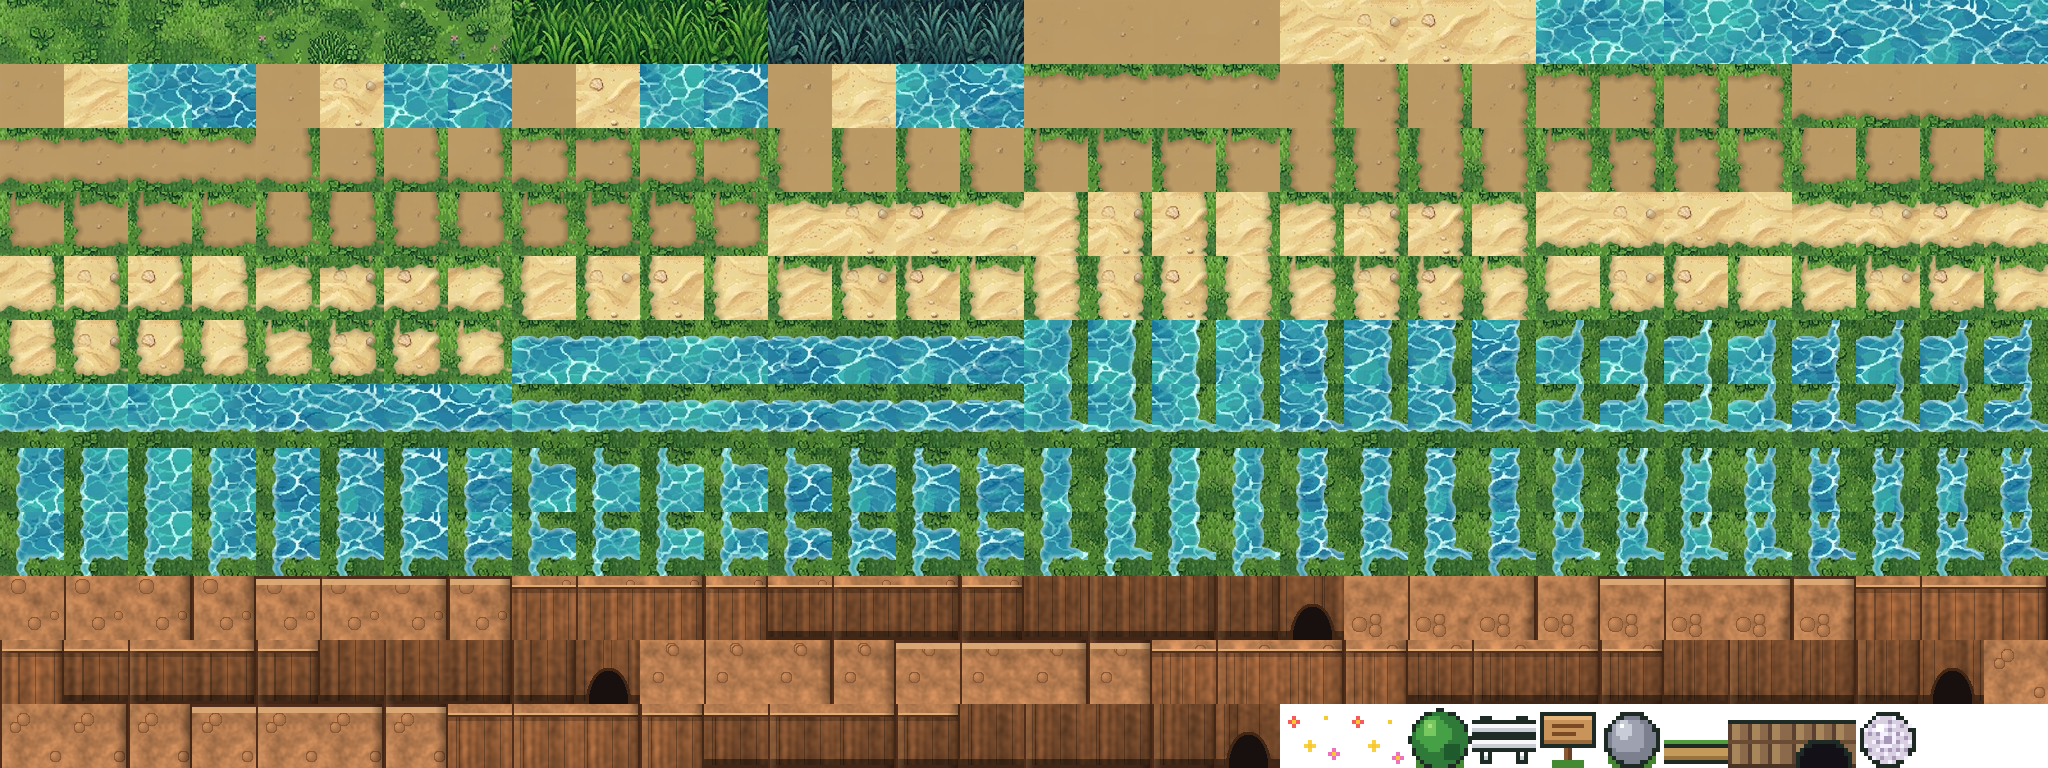
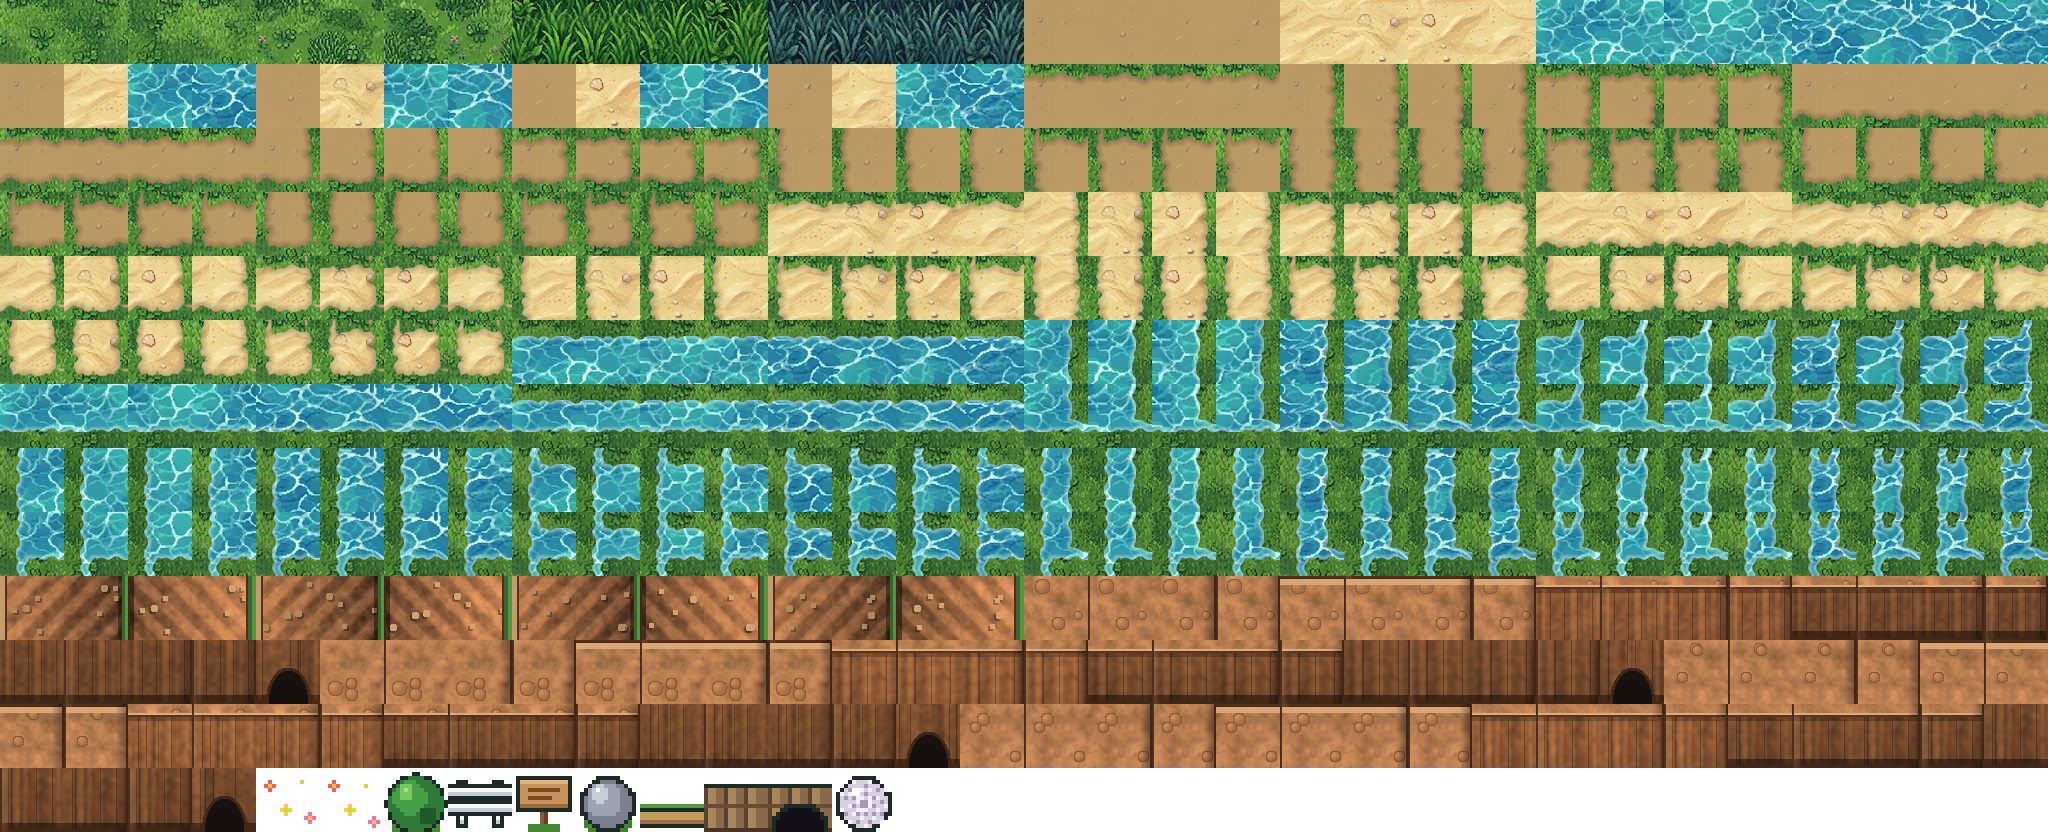
Laderas laterales en pendiente entre las terrazas y el prado de la Ruta 3
Claude-Session: https://claude.ai/code/session_018v1fAZrQHSEnPWssP3zxe4

diff --git a/src/game/world/maps.ts b/src/game/world/maps.ts
@@ -362,12 +362,12 @@ add(casa("casa-petri", "Casa de Ciudad Petri", { to: "ciudad-petri", x: 18, y: 1
   b.ascii([
     "%%%%%%%%**%%%%%%%%%%TTTTTTTTTTTTTTTTTTTTTTTT",
     "%%%%%%%%**%%%%%%%%%%TTTTTTTTTTTTTTTTTTTTTTTT",
-    "pppppppp~~ppppppppppTT.....k.........k....TT",
-    "pppppppp~~ppppppppppTT.f...k.........k....TT",
-    "pppppppp==ppppppppppTT.....k.........k....TT",
-    "pppppppp~~ppppppppppTT.....k.........k....TT",
-    "pppppppp~~ppppppppppTT.....k.........k....TT",
-    "%%%%%%%%**%%%%%^%%%%TT.....k.........k....TT",
+    "pppppppp~~pppppppp>>.......k.........k....TT",
+    "pppppppp~~pppppppp>>...f...k.........k....TT",
+    "pppppppp==pppppppp>>.......k.........k....TT",
+    "pppppppp~~pppppppp>>.......k.........k....TT",
+    "pppppppp~~pppppppp>>.......k.........k....TT",
+    "%%%%%%%%**%%%%%^%%%%.......k.........k....TT",
     "%%%%%%%%**%%%%%^%%%%.......lllllppllll....TT",
     "pppppppp~~pppppppppp....ggg.ggggppgggg....TT",
     "pppppppp~~pppppppppp....gfg.ggggppgggg....TT",
@@ -376,16 +376,16 @@ add(casa("casa-petri", "Casa de Ciudad Petri", { to: "ciudad-petri", x: 18, y: 1
     "pppppppp~~pppppppppplllpllllllllppllggggg.TT",
     "pppppppp~~ppppppppppppppppppppppppppgggggppp",
     "%%%%^%%%**%%%%%%%%%%ppppppppppppppppgggggppp",
-    "%%O%^%%%**%%%%%%%%%%TTkkkkkkkkkkkkkkggggg.TT",
-    "pppppppp~~ppppppppppTT............f.......TT",
-    "pppppppp~~ppppppppppTT....gggggggg..TT....TT",
-    "pppppppp~~ppppppppppTT....gggggggg..TT....TT",
-    "pppppppp~~ppppppppppTT....gggggggg......f.TT",
-    "pppppppp==ppppppppppTT..f.gggggggg........TT",
-    "pppppppp~~ppppppppppTT........TT......TT..TT",
-    "pppppppp~~ppppppppppTTgggg....TT...f..TT..TT",
-    "pppppppp~~ppppppppppTTgggg..f.............TT",
-    "pppppppp~~ppppppppppTTgggg................TT",
+    "%%O%^%%%**%%%%%%%%%%kkkkkkkkkkkkkkkkggggg.TT",
+    "pppppppp~~pppppppp<<..............f.......TT",
+    "pppppppp~~pppppppp<<......gggggggg..TT....TT",
+    "pppppppp~~pppppppp<<......gggggggg..TT....TT",
+    "pppppppp~~pppppppp<<......gggggggg......f.TT",
+    "pppppppp==pppppppp<<....f.gggggggg........TT",
+    "pppppppp~~pppppppp<<..........TT......TT..TT",
+    "pppppppp~~pppppppp<<..gggg....TT...f..TT..TT",
+    "pppppppp~~pppppppp<<..gggg..f.............TT",
+    "pppppppp~~pppppppp<<..gggg................TT",
     "%%%%%%%%**%%%%%%%%%%TTTTTTTTTTTTTTTTTTTTTTTT",
     "%%%%%%%%**%%%%%%%%%%TTTTTTTTTTTTTTTTTTTTTTTT",
   ]);

diff --git a/src/game/world/builder.ts b/src/game/world/builder.ts
@@ -152,18 +152,23 @@ export function tileAt(m: MapDef, x: number, y: number, frame = 0): string {
   }
   if (ch === "%" || (ch === "O" && (m.grid[y]?.[x - 1] === "%" || m.grid[y]?.[x + 1] === "%"))) {
     // Montaña con relieve: la pieza depende de qué lados dan a suelo (ver tools/art/terreno_hd.py)
-    const roca = (xx: number, yy: number) => { const c = m.grid[yy]?.[xx]; return c === undefined || c === "%" || c === "O"; };
+    const roca = (xx: number, yy: number) => { const c = m.grid[yy]?.[xx]; return c === undefined || c === "%" || c === "O" || c === "<" || c === ">"; };
     if (ch === "O") return "monte_cueva";
     const e = roca(x + 1, y) ? 0 : 1, w = roca(x - 1, y) ? 0 : 1;
     // por debajo del mapa se considera terreno más bajo: el borde inferior es una pared que cae
-    const abierto = (k: number) => y + k >= m.h || !roca(x, y + k);
+    const abierto = (k: number) => y + k >= m.h || !"%O".includes(m.grid[y + k]?.[x] ?? "%");   // las laderas cuentan como más bajo
     if (abierto(1)) return `monte_${roca(x, y - 1) && m.grid[y - 1]?.[x] === "%" ? "cara2" : "cara1"}_${e}${w}`;
     if ((m.grid[y + 1]?.[x] === "%" || m.grid[y + 1]?.[x] === "O") && abierto(2)) return `monte_alta_${e}${w}`;
     return `monte_cima_${roca(x, y - 1) ? 0 : 1}${e}${w}`;
   }
+  if (ch === ">" || ch === "<") {
+    // laderas laterales de 2 casillas: «>» baja hacia el este (terraza más alta), «<» sube hacia el este (más baja)
+    const parte = m.grid[y]?.[x - 1] === ch ? 2 : 1;
+    return `monte_ladera_${ch === ">" ? "baja" : "sube"}_${parte}`;
+  }
   if (ch === "~" || ch === "p" || ch === "s") {
     // vecinos que no llevan borde de césped: en la montaña, riscos, escalones, puentes y cascadas
-    const sinBorde = ch === "p" ? "%^=|*O~s" : ch === "~" ? "=|*%p" : ch === "s" ? "%^=|*O~p" : "";
+    const sinBorde = ch === "p" ? "%^=|*O~s<>" : ch === "~" ? "=|*%p" : ch === "s" ? "%^=|*O~p" : "";
     const same = (xx: number, yy: number) => { const c = m.grid[yy]?.[xx]; return c === undefined || c === ch || sinBorde.includes(c) || (ch === "p" && (c.startsWith("@muro_puerta") || c === "@puerta_hd")); };
     const mask = (same(x, y - 1) ? 0 : 1) | (same(x + 1, y) ? 0 : 2) | (same(x, y + 1) ? 0 : 4) | (same(x - 1, y) ? 0 : 8);
     if (ch === "~") return `agua_${mask}_${frame % 64 < 32 ? 0 : 1}`;

diff --git a/tools/art/terreno_hd.py b/tools/art/terreno_hd.py
@@ -127,7 +127,42 @@ def cueva(seed):
     borde = ((xx - 32) / 23) ** 2 + ((yy - 64) / 37) ** 2 < 1
     a[borde & ~arco] = OUT; a[arco] = np.array([24, 16, 14.])
     return a
+def ladera(baja, parte, seed):
+    """Laderas laterales (2 casillas de ancho) entre una terraza y el prado del este, vistas en pendiente.
+    baja=True: la terraza está más alta y la ladera BAJA hacia el este (orientada al este: en sombra).
+    baja=False: la terraza está más baja y la ladera SUBE hacia el este (orientada al oeste: iluminada).
+    parte 1 = casilla del oeste (junto a la terraza), 2 = casilla del este (junto al prado)."""
+    yy, xx = np.mgrid[0:C, 0:C]
+    gx = (xx + (parte - 1) * C) / (2 * C - 1)                  # 0 en el borde de la terraza, 1 en el del prado
+    base = TOP * 0.55 + FACE * 0.45
+    ruido = _ruido(seed, 2.5) * 0.05 + _ruido(seed + 4, 0.9) * 0.025
+    # vetas diagonales marcadas (pedregal en pendiente) y degradado fuerte: se lee como una rampa, no como una pared
+    d = (xx + (parte - 1) * C) + (yy if baja else -yy)
+    vetas = 0.13 * np.sign(np.sin(d / 5.0)) * (0.6 + 0.4 * np.abs(np.sin(d / 5.0)))
+    vetas = gaussian_filter(vetas, 0.8)
+    luz = (1.08 - 0.5 * gx) if baja else (0.72 + 0.5 * gx)
+    a = base[None, None] * (luz + ruido + vetas)[..., None]
+    # piedras sueltas con sombra hacia abajo de la pendiente
+    rng = np.random.default_rng(seed + 31)
+    for _ in range(4):
+        cx, cy, r = rng.integers(8, 56), rng.integers(8, 56), rng.integers(3, 5)
+        m = np.hypot(xx - cx, yy - cy) < r
+        sh = np.hypot(xx - cx - (2 if baja else -2), yy - cy - 2) < r
+        a[sh & ~m] *= 0.7; a[m] = TOP_L * (0.95 if not baja else 0.8)
+    hierba = np.array([84, 150, 64.]); hierba_o = np.array([52, 104, 44.])
+    if baja:
+        if parte == 1: a[:, :5] = TOP_L * 0.9; a[:, 5:7] = OUT * 1.3                       # labio de la terraza alta
+        else:                                                                               # pie: la hierba del prado
+            a[:, C - 10:C - 6] *= 0.6; a[:, C - 6:] = hierba_o; a[:, C - 3:] = hierba
+    else:
+        if parte == 1: a[:, :6] *= 0.55; a[:, :2] = OUT                                      # pie, en la terraza baja
+        else:                                                                               # arriba: el borde del prado
+            a[:, C - 10:C - 8] = OUT * 1.2; a[:, C - 8:C - 4] = hierba_o; a[:, C - 4:] = hierba
+    return a
 def montana(out):
+    for q in range(4):
+        for baja, nombre in ((True, "baja"), (False, "sube")):
+            for parte in (1, 2): out[f"monte_ladera_{nombre}_{parte}#{q}"] = ladera(baja, parte, 2000 + q * 13 + parte)
     for q in range(4):
         s = 1000 + q * 37
         for n in (0, 1):

diff --git a/tools/rutas/rutas_v2.py b/tools/rutas/rutas_v2.py
@@ -5,7 +5,7 @@ import json, sys
 from pathlib import Path
 from collections import deque
 
-SOLIDO = set("T%A~*klrSvO") | {"#"}
+SOLIDO = set("T%A~*klrSvO<>") | {"#"}
 
 def lienzo(w, h, c="."): return [[c] * w for _ in range(h)]
 def fill(g, x, y, w, h, c):
@@ -74,9 +74,9 @@ def ruta3():
     # ---- oeste: desfiladero en tres terrazas que bajan hacia el sur y ocupan todo el ancho; entre una y otra solo
     # hay la pared (2 casillas: labio arriba y sombra en la base), que cruza de lado a lado como un escalón
     fill(g, 0, 0, 20, 28, "%")
-    fill(g, 0, 2, 20, 5, "p")                                             # terraza alta (filas 2-6)
+    fill(g, 0, 2, 18, 5, "p"); fill(g, 18, 2, 2, 5, ">")                  # terraza alta (filas 2-6): baja en ladera al prado
     fill(g, 0, 9, 20, 6, "p")                                             # terraza media (filas 9-14), a nivel del prado
-    fill(g, 0, 17, 20, 9, "p")                                            # terraza baja (filas 17-25)
+    fill(g, 0, 17, 18, 9, "p"); fill(g, 18, 17, 2, 9, "<")                # terraza baja (filas 17-25): el prado sube en ladera
     fill(g, 15, 7, 1, 2, "^"); fill(g, 4, 15, 1, 2, "^")                  # escaleras talladas en las paredes
     # el río baja de norte a sur y cae en cascada en cada pared
     fill(g, 8, 0, 2, 2, "*"); fill(g, 8, 2, 2, 5, "~"); fill(g, 8, 7, 2, 2, "*"); fill(g, 8, 9, 2, 6, "~")
@@ -90,7 +90,6 @@ def ruta3():
     fill(g, 20, 13, 16, 1, "l"); fill(g, 20, 16, 16, 1, "k")
     g[13][23] = "p"; g[13][32] = "p"; g[13][33] = "p"
     fill(g, 20, 2, 7, 11, ".")                                            # claro
-    fill(g, 20, 2, 2, 6, "T"); fill(g, 20, 16, 2, 10, "T")
     # casa con jardín vallado al noreste: la puerta queda en (32, 7)
     fill(g, 27, 2, 1, 7, "k"); fill(g, 37, 2, 1, 7, "k"); fill(g, 27, 8, 11, 1, "l"); g[8][32] = "p"; g[8][33] = "p"
     fill(g, 32, 9, 2, 4, "p")

diff --git a/PROGRESO.md b/PROGRESO.md
@@ -170,5 +170,7 @@ Roadmap: 7 fases (0–6). Cada fase termina en una puerta.
 
 - Ruta 3: las tres terrazas ocupan todo el ancho del desfiladero y entre ellas solo hay la pared (2 casillas: labio y base), que cruza de lado a lado como un escalón; árboles separan las terrazas alta y baja del prado (que está al nivel de la media). Por debajo del mapa se considera terreno más bajo (el borde inferior es una pared que cae). La boca de la cueva va integrada en la pared.
 
+- Laderas laterales de la montaña (`>` baja hacia el este, `<` sube hacia el este; 2 casillas, `ladera` en terreno_hd.py): pedregal con vetas diagonales, degradado de luz y reborde de hierba en el lado del prado. En la Ruta 3 el prado está al nivel de la terraza media: la alta baja en ladera hasta él y la baja sube en ladera hasta él (sin árboles de frontera).
+
 ## Siguiente tarea
 Pendiente del GDD: Modo Torneo y mochila bloqueada en Difícil, objetos equipados, variocolor y RandomLocke. Posibles mejoras: más diálogos y misiones secundarias, mejorar la calidad de los sprites (Microos diseñados por especie, retratos limpios, pasos), música y efectos.
